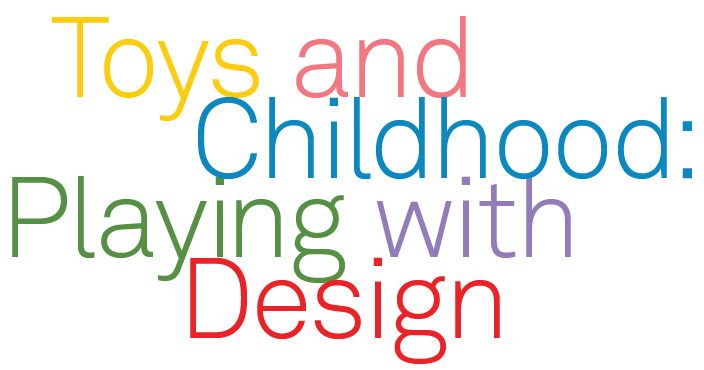
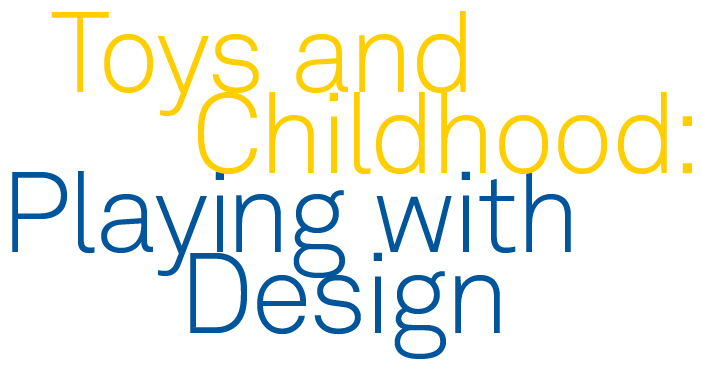
updated SWT colors to official Swedish Blue and Yellow

Changed region(s): [[0.0, 0.0301, 0.9886, 0.9918], [0.0599, 0.0301, 0.1797, 0.0902], [0.0899, 0.2404, 0.1198, 0.2705]]

diff --git a/AP/AP1516/AP_swt_symposium/AP_swt_symposium.html b/AP/AP1516/AP_swt_symposium/AP_swt_symposium.html
@@ -5,8 +5,8 @@
         <title>Symposium&mdash;Toys and Childhood: Playing with Design</title>
         <style type="text/css">
         body {margin: 0; padding: 0; min-width: 100%!important; color:#333;}
-        a {color:#0088c0;}
-        .colorText{color:#0088c0;}
+        a {color:#00559b;}
+        .colorText{color:#00559b;}
         img {display:block;}
         a img {border:none;}
         .content {width: 740px; padding:20px; font-family: Arial, sans-serif; font-size:13px;}
